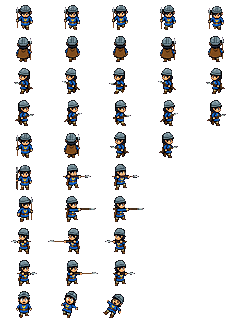
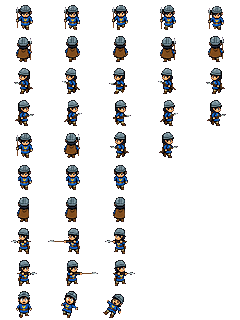
Estoc de face et de dos : lance redessinee en code, heros sans lance en main
Claude-Session: https://claude.ai/code/session_01R6DULziKfSGZcEEcyC3Cch

Changed region(s): [[0.2625, 0.5, 0.4083, 0.7188], [0.4667, 0.5, 0.5833, 0.7188], [0.0583, 0.5, 0.1458, 0.7188]]

diff --git a/Outils/traiter_heros_gemini.py b/Outils/traiter_heros_gemini.py
@@ -18,9 +18,16 @@ HAUTEUR_HEROS = 25     # un héros debout (casque aux bottes) fait 25 px de haut
 a = np.array(Image.open(SRC).convert("RGB")).astype(int)
 
 
-def detourer(boite):
+def detourer(boite, efface=None):
+    """efface = ("g", x) ou ("d", x) : efface la lance tenue en main (tout ce qui est à gauche / à droite de la colonne x, sauf la main) pour la redessiner en code."""
     x0, y0, x1, y1 = boite
     c = a[y0:y1, x0:x1].copy()
+    if efface:
+        r_, g_, b_ = c[..., 0], c[..., 1], c[..., 2]
+        peau = (r_ > 200) & (g_ > 120) & (g_ < 205) & (b_ > 80) & (b_ < 175)
+        colonnes = np.arange(c.shape[1])[None, :]
+        zone = (colonnes < efface[1]) if efface[0] == "g" else (colonnes >= efface[1])
+        c[zone & ~peau] = (255, 0, 255)
     r, g, b = c[..., 0], c[..., 1], c[..., 2]
     fond = (r > 150) & (b > 150) & (g < 120)
     lab, n = ndimage.label(~fond)
@@ -95,13 +102,44 @@ repos = {"bas": cases_marche["bas"][0], "haut": cases_marche["haut"][0], "droite
 for col, d in enumerate(("bas", "haut", "gauche", "droite")):
     p, cx = repos["droite" if d == "gauche" else d]
     poser(feuille, p, cx, col, 4, miroir=(d == "gauche"))
-# estoc
+# estoc : gauche / droite = poses de profil de la planche ; bas / haut = le héros de face / de dos SANS lance dans la main
+# (la planche Gemini ne dessine la lance que de profil) ; player.gd redessine alors la lance (lance_g.png) qui avance vers le bas / le haut.
+def sans_lance(boite, efface, penche):
+    im, cx = detourer(boite, efface)
+    p = reduire(im, E)
+    return [(p, cx * E), (p, cx * E), (p, cx * E)], penche
+
+
 for k, d in enumerate(("bas", "haut", "gauche", "droite")):
-    src = [case(b) for b in boites_poses["attaque_" + ("droite" if d == "gauche" else d)]]
+    if d == "bas":
+        src, _ = sans_lance(boites_marche["bas"][0], ("g", 23), 1)
+    elif d == "haut":
+        src, _ = sans_lance(boites_marche["haut"][0], ("d", 98), -1)
+    else:
+        src = [case(b) for b in boites_poses["attaque_" + ("droite" if d == "gauche" else d)]]
     for col, (p, cx) in enumerate(src):
         poser(feuille, p, cx, col, 5 + k, miroir=(d == "gauche"))
+        if d in ("bas", "haut") and col > 0:   # corps qui se penche d'un pixel vers l'avant pendant l'estoc
+            pass
 for col, b in enumerate(boites_poses["degats"]):
     p, cx = case(b)
     poser(feuille, p, cx, col, 9)
 feuille.save(SORTIE)
-print("héros Gemini :", feuille.size, "échelle", round(E, 3))
+
+# La lance redessinée EN PIXELS (le fer de la planche Gemini devient illisible à cette taille) : pointe d'acier + manche brun, pointe vers le BAS.
+# La main tient la lance à ~38 % de sa longueur depuis la pointe (voir player.gd::MAIN_LANCE).
+LONG, LARG = 26, 5
+D, L, M, B1, B2 = (36, 36, 52, 255), (214, 222, 234, 255), (150, 166, 188, 255), (40, 24, 18, 255), (122, 78, 42, 255)
+fer = ["..d..", ".dld.", ".dld.", "dlmld", "dlmld", ".dmd.", "..d.."]
+lance = Image.new("RGBA", (LARG, LONG), (0, 0, 0, 0))
+code = {"d": D, "l": L, "m": M}
+for y, ligne in enumerate(fer):
+    for x, ch in enumerate(ligne):
+        if ch in code:
+            lance.putpixel((x, y), code[ch])
+for y in range(len(fer), LONG):
+    lance.putpixel((1, y), B1)
+    lance.putpixel((2, y), B2)
+    lance.putpixel((3, y), B1)
+lance.transpose(Image.FLIP_TOP_BOTTOM).save("Assets/Heros/lance_g.png")   # pointe vers le bas
+print("lance_g.png", lance.size)

diff --git a/CLAUDE.md b/CLAUDE.md
@@ -992,3 +992,6 @@
      `player.gd` l'utilise s'il existe (`_creer_animations_g`, offset (0,-9)), sinon ancien héros LPC. La lance du pack n'est plus dessinée (le héros tient la sienne ; la zone de touche reste). Limite : l'estoc vers le haut/bas montre la lance de CÔTÉ (la planche Gemini ne l'a dessinée que de profil), 3e pose « haut » remplacée.
      Les poses `degats` (surpris, touché, assommé) sont dans la planche mais pas encore utilisées (`blesser` ne fait que clignoter). `Tests/bot_jeu.gd` : scénario `heros` (`-- heros <Ecran> <x> <y>` : marche + estoc dans 4 directions, photos recadrées sur le héros).
   RESTE : boss (`gardien.jpg`), cœurs/plume du HUD à remplacer par les icônes Gemini, objets du village à semer (banc, foin, seau, pots de fleurs).
+- 2026-11-15 : retour « la lance de côté me gêne (haut / bas) ». Gemini a re-dessiné une planche (`heros.jpg` v2 reçue puis écartée : lance TOUJOURS de profil avec un énorme fer, aucune pose utilisable). SOLUTION FAITE PAR CODE (tests OK + bot `heros` vérifiés, pas joué) :
+  `traiter_heros_gemini.py` : estoc BAS / HAUT = le héros de face / de dos SANS lance dans la main (la lance tenue est effacée, la main reste) ; `Assets/Heros/lance_g.png` (5x26, fer d'acier + manche brun dessinés en pixels, pointe vers le bas) ; `player.gd::_lance_g` (Sprite2D) avance de 7 px depuis la main (`MAIN_G` bas (-8,-6) / haut (6,-6), tournée de PI vers le haut) pendant l'estoc ; gauche / droite = poses de profil de la planche. La zone de touche (Area2D) n'a pas changé.
+  Si Gemini sait un jour dessiner l'estoc de face / dos, remplacer `sans_lance(...)` dans le script par les vraies poses et supprimer `_lance_g`.
